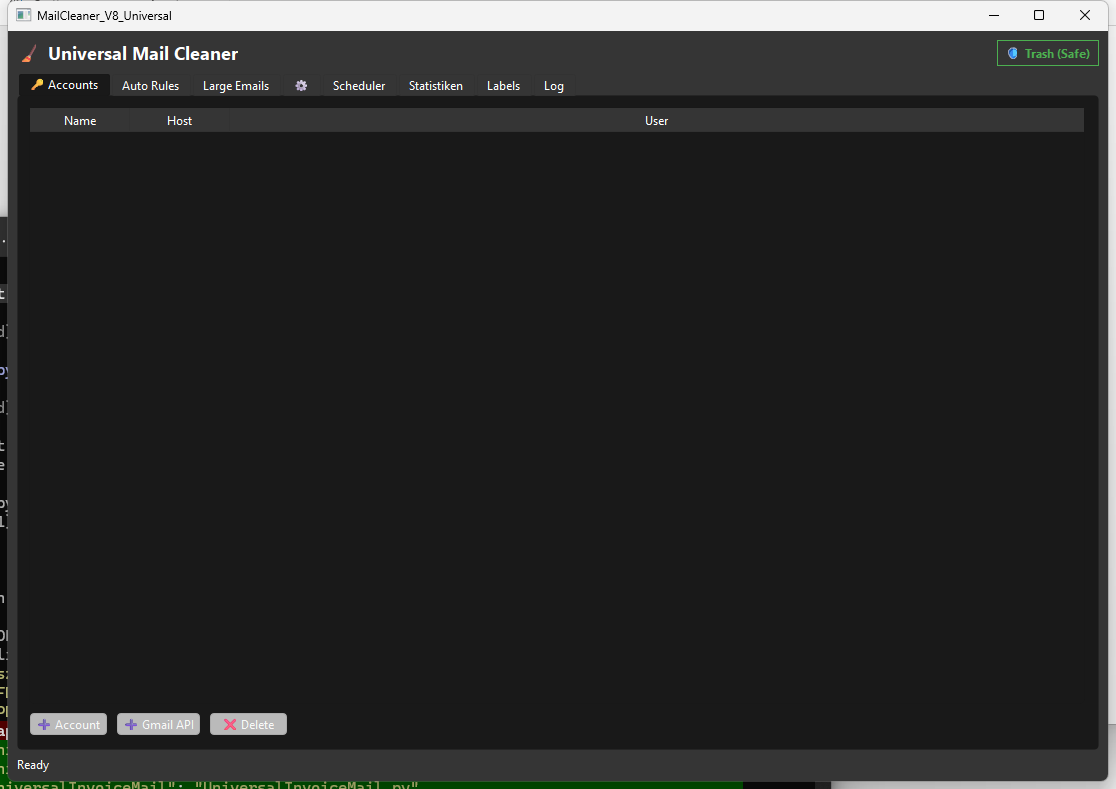
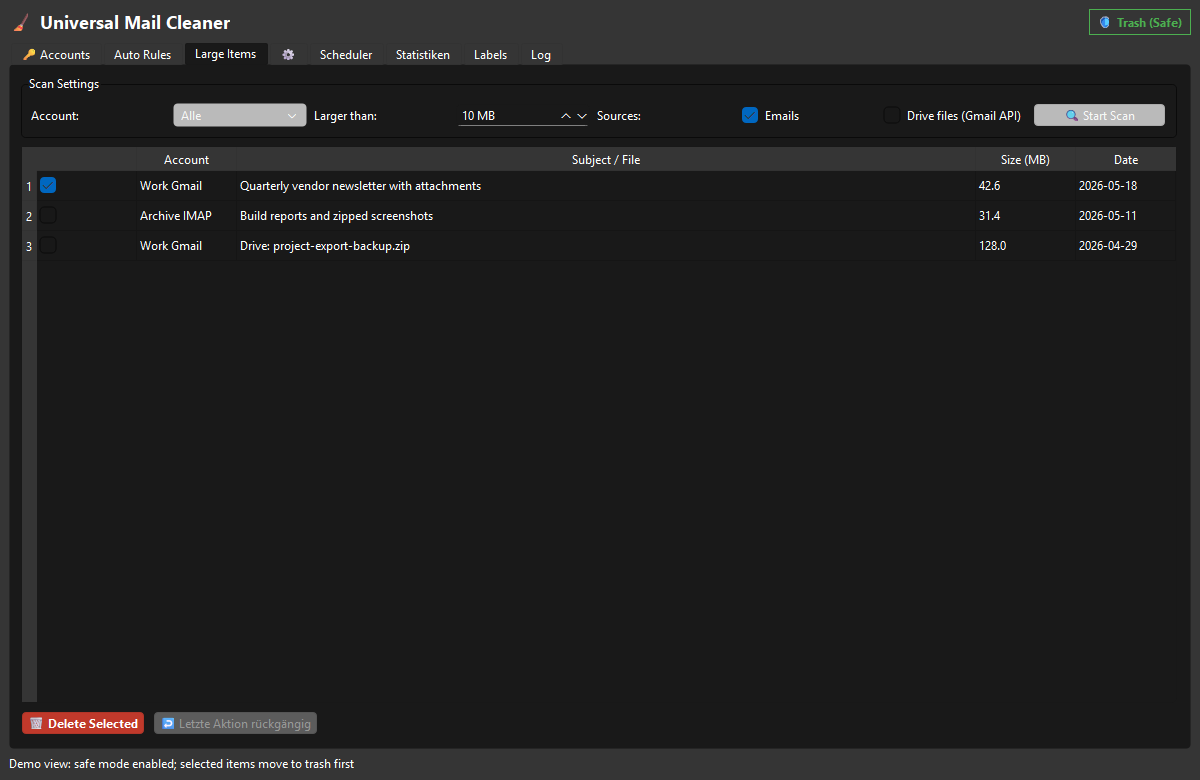
docs: improve UniversalMailCleaner discoverability

Changed region(s): [[0.0, 0.0, 1.0, 1.0], [0.8835, 0.3077, 0.9444, 0.3385], [0.8226, 0.3077, 0.853, 0.3385]]

diff --git a/mail_imap_cleaner_v1.py b/mail_imap_cleaner_v1.py
@@ -48,7 +48,7 @@ except ImportError:
 
 # ==================== CONFIGURATION ====================
 
-APP_NAME = "MailCleaner_V8_Universal"
+APP_NAME = "UniversalMailCleaner"
 BASE_DIR = Path.home() / ".mail_cleaner"
 BASE_DIR.mkdir(parents=True, exist_ok=True)
 CONFIG_FILE = BASE_DIR / "config.json"

diff --git a/README-DE.md b/README-DE.md
@@ -1,14 +1,26 @@
 # UniversalMailCleaner
 
-Desktop-Tool zum regelbasierten Aufräumen von IMAP- und Gmail-Postfächern mit Safe-Mode, Mehrordner-Support und Undo für Papierkorb-Aktionen.
+Lokale Windows-Desktop-App zum Aufräumen von IMAP- und Gmail-Postfächern. UniversalMailCleaner bündelt regelbasierte Mail-Bereinigung, große-Mail- und Drive-Scans, geplante Läufe, Safe-Mode und rückgängig machbare Löschaktionen in einer PySide6-Oberfläche.
 
 > **English documentation:** [README.md](README.md)
 
-![UniversalMailCleaner Vorschau](README/screenshots/main.png)
+![UniversalMailCleaner Desktop-Oberfläche für Mailbox-Bereinigung mit Konten, Regeln, großen Elementen, Gmail-Labels, Scheduler und Safe-Mode](README/screenshots/main.png)
 
 ## Überblick
 
 UniversalMailCleaner ist für lokale Mail-Aufräumroutinen gedacht: mehrere Konten verwalten, Regeln definieren, große Mails finden und Löschaktionen standardmäßig sicher über den Papierkorb ausführen.
+
+## Warum UniversalMailCleaner
+
+Das Tool richtet sich an Nutzerinnen und Nutzer, die Postfachspeicher und Newsletter-Ballast reduzieren möchten, ohne die eigene Mailbox an einen zusätzlichen Cloud-Dienst zu übergeben. Die App läuft lokal, speichert Passwörter nicht in der Projektkonfiguration, unterstützt normale IMAP-Provider und nutzt die Gmail API nur dort, wo OAuth2-Funktionen gebraucht werden.
+
+Geeignet für:
+
+- Gmail-Bereinigung mit OAuth2 und Label-Aktionen
+- IMAP-Mail-Aufräumen für GMX, Outlook, Gmail IMAP und weitere SSL-IMAP-Provider
+- Suche nach großen E-Mails und optionalen Google-Drive-Dateien
+- Geplante Safe-Mode-Bereinigung
+- Lokales, datenschutzorientiertes Mail-Management unter Windows
 
 ## Funktionen
 
@@ -25,6 +37,10 @@ UniversalMailCleaner ist für lokale Mail-Aufräumroutinen gedacht: mehrere Kont
 - Gmail-spezifische Tabs für Speicherstatistiken und labelbasiertes Aufräumen
 - Konfigurierbares Logging über `UMAIL_CLEANER_LOG_LEVEL`
 - Modulare Struktur mit `imap_client.py`, `models.py` und `workers.py`
+
+## Suchbegriffe
+
+`Gmail Cleaner`, `Gmail aufräumen`, `IMAP Cleaner`, `Mailbox Cleaner`, `E-Mail-Bereinigung`, `große Mails finden`, `Gmail Labels aufräumen`, `lokales Mail-Management`, `PySide6 Desktop-App`, `Windows Mail Cleaner`
 
 ## Start
 

diff --git a/README.md b/README.md
@@ -1,10 +1,22 @@
 # UniversalMailCleaner
 
-Desktop tool for cleaning IMAP and Gmail mailboxes with rule-based filters, safe trash mode, multi-folder support, and undo for trash operations.
+Local-first Windows desktop app for cleaning IMAP and Gmail mailboxes. UniversalMailCleaner combines rule-based email cleanup, large-mail and Drive scans, scheduler runs, safe trash mode, and undoable deletion workflows in one PySide6 interface.
 
 > **Deutsche Dokumentation:** [README-DE.md](README-DE.md)
 
-![UniversalMailCleaner Preview](README/screenshots/main.png)
+![UniversalMailCleaner desktop mailbox cleanup UI with accounts, rules, large-item scan, Gmail labels, scheduler, and safe trash mode](README/screenshots/main.png)
+
+## Why UniversalMailCleaner
+
+UniversalMailCleaner is built for people who want to reduce mailbox storage and newsletter clutter without handing their inbox to another cloud service. It runs locally, keeps passwords out of the project config, supports standard IMAP providers, and can use the Gmail API when OAuth2 account features are needed.
+
+Use it for:
+
+- Gmail mailbox cleanup with OAuth2 and label-aware actions
+- IMAP email cleanup for GMX, Outlook, Gmail IMAP, and other SSL IMAP providers
+- Large email and optional Google Drive file cleanup
+- Scheduled safe-mode mailbox maintenance
+- Local, privacy-conscious mail management on Windows
 
 ## Features
 
@@ -21,6 +33,10 @@ Desktop tool for cleaning IMAP and Gmail mailboxes with rule-based filters, safe
 - Gmail-specific tabs for storage statistics and label-based cleanup
 - Configurable logging via `UMAIL_CLEANER_LOG_LEVEL`
 - Modular architecture: `imap_client.py`, `models.py`, `workers.py`
+
+## Discovery Keywords
+
+`gmail cleaner`, `gmail cleanup tool`, `imap cleaner`, `mailbox cleaner`, `email cleanup`, `large email finder`, `gmail label cleanup`, `local-first email management`, `PySide6 desktop app`, `Windows email cleaner`
 
 ## Run
 

diff --git a/CHANGELOG.md b/CHANGELOG.md
@@ -18,6 +18,7 @@ Format basiert auf [Keep a Changelog](https://keepachangelog.com/de/1.1.0/).
 - Gmail OAuth now requests full Drive access and discards cached tokens that only have the old read-only Drive scope
 - Google client libraries are now imported lazily so IMAP-only setups still
   start even when the optional Gmail packages are not installed
+- README copy, screenshot alt text, app title, and discovery metadata now describe UniversalMailCleaner as a local-first Gmail and IMAP cleanup app
 
 ## [1.2.0] - 2026-05-02
 